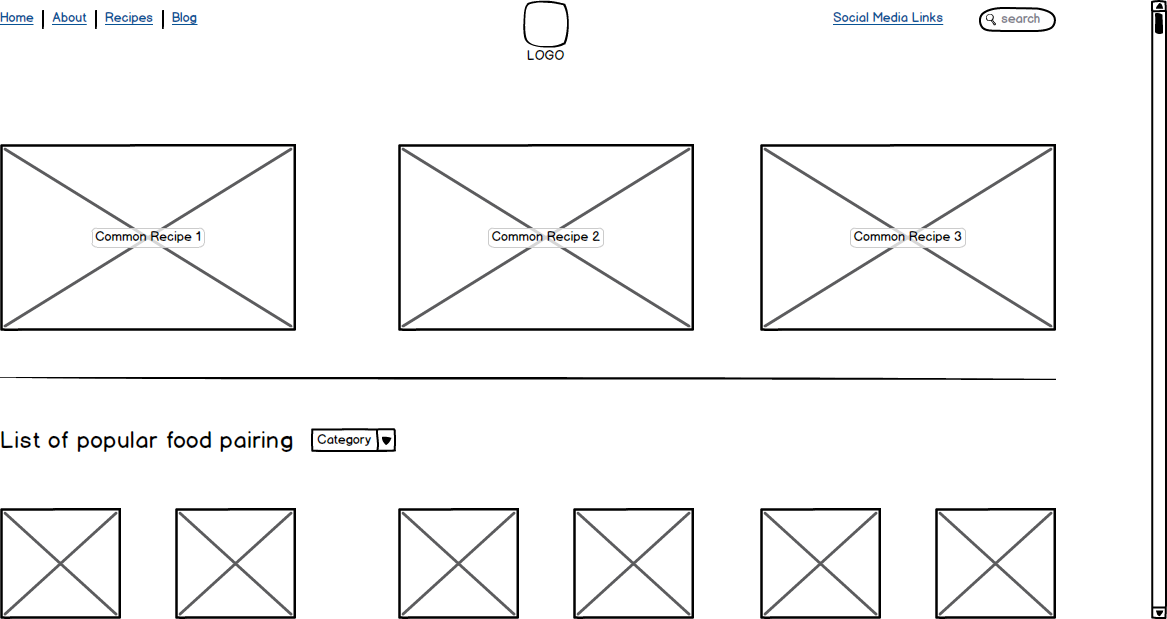
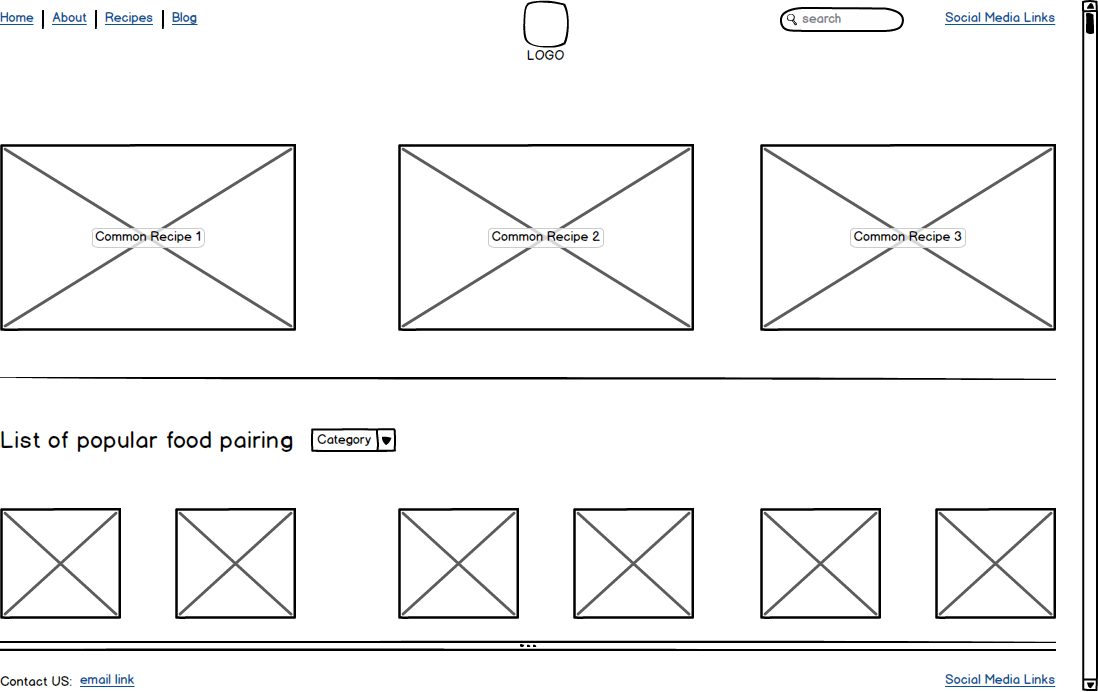
final edits to unit2 webpage and templates images

diff --git a/Unit2/index.html b/Unit2/index.html
@@ -7,7 +7,7 @@
 
 
 <body>
-  <h1>Unit 2 Design Challenge<h2>
+  <h1>Unit 2 Design Challenge<h1>
   
 
   <h2>1. Which two websites are you most inspired by?</h2>
@@ -25,8 +25,9 @@
  <p>This website does not have a lot of white space, but it also has a lot of information for the users. Because of this, the site does not waste any space and begs the user to scroll through its content. When the site opens for the users, it has them focus on the big pictures that immediately appear on top of the home page. The website does not have true balance except for the way it displays content hierarchy. The site has the most important content first, then it shows the users other searched content as they scroll down the page. It also has a header that is frozen as you scroll.</p>
 
  <h3>b) donachai.com</h3>
- <p>This website has a lot of balance horizontally. It fills the white space with different colors or background pictures, which helps to separate the sections on the website. The site has a header that includes the logo, but it does not seem that it is the focal point. Also the header does not drastically stand out compared to other website content. Additionally, the header has links that navigate the users to different sections within the page so he/she does not have to scroll to navigate.  
+ <p>This website has a lot of balance horizontally. It fills the white space with different colors or background pictures, which helps to separate the sections on the website. The site has a header that includes the logo, but it does not seem that it is the focal point. Also the header does not drastically stand out compared to other website content. Additionally, the header has links that navigate the users to different sections within the page so he/she does not have to scroll to navigate.</p>
   
+
 
 <h2>3. What makes them similar and different?</h2>
  <p>The two sites are <u>similar</u> in the following ways:</p>
@@ -37,7 +38,7 @@
   </ul>
 
   <p>The two sites are <u>different</u> in the following ways:</p>
- <ul>
+  <ul>
     <li><em>Food52</em> has a lot more content compared to <em>donachai</em></li>
     <li><em>Food52</em> does not separate its horizontal sections with different background colors/pictures compared to <em>donachai</em></li>
     <li><em>Food52</em> has a site header that moves with the users as they navigate. <em>donachai</em> does not have the header follow the user's navigation</li>
@@ -45,17 +46,29 @@
 
 
 
-
-
-
  <h2>4. Thumbnail sketches</h2>
   <ul>
     <li><Strong>Home Page Version 1</Strong></li>
+       <p>The homepage for this website will make it easy for the users to navigate. The hierarchy will be from top to bottom. The header will have the most useful information such as the navigation links, logo, search field, and social media links. The user's eyes will be drawn to the larger images, which will display the most common recipes on the sire. The next important thing will be the section about the food pairing that go with the recipes. The user will be able to select a category, which will change the 6 images displaying on the home page. The footer will contain an email link and again the social media links. The grid layout will stay consistent through out the homepage. The white space behind the different sections will make the homepage feel less confined even though it has a good amount of images.</p>
+  
+   <img src="Template1.png" height="420" width="900" border="1"> 
   </ul>
 
-   <img src="Template1.png" height="42" width="42"> 
+<br>
 
+  <ul>
+   <li><Strong>Home Page Version 2</Strong></li>
+       <p>The homepage for this website draws the user to its focal point, which is the image link of its most popular recipe. It then surrounds itself with other smaller image links of food pairings. The food pairing image links can also be updated by choosing specific category from the dropdown above the focal point image. The white space behind the section containing the focal point, gives the users a creative way of seeing lots of content without feeling overwhelmed. A section about me is shown below the the main focal point. This has a grid layout of 2 columns converging into 1 column which contains the important part of the about me section. The user can also use the navigation links in the header to search, navigate to social media, and jump to other related content from the homepage.</p>
+  
+   <img src="Template2.png" height="1100" width="900" border="1"> 
+  </ul>
 
+<br>
+
+<p><strong>
+If you're interested in my story or want to collaborating with me on a project, click 
+<a  href = "http://egoldin1126.github.io/Unit1_ProjectAboutMe/about.html">here</a>.
+</strong></p>
 
 
 
